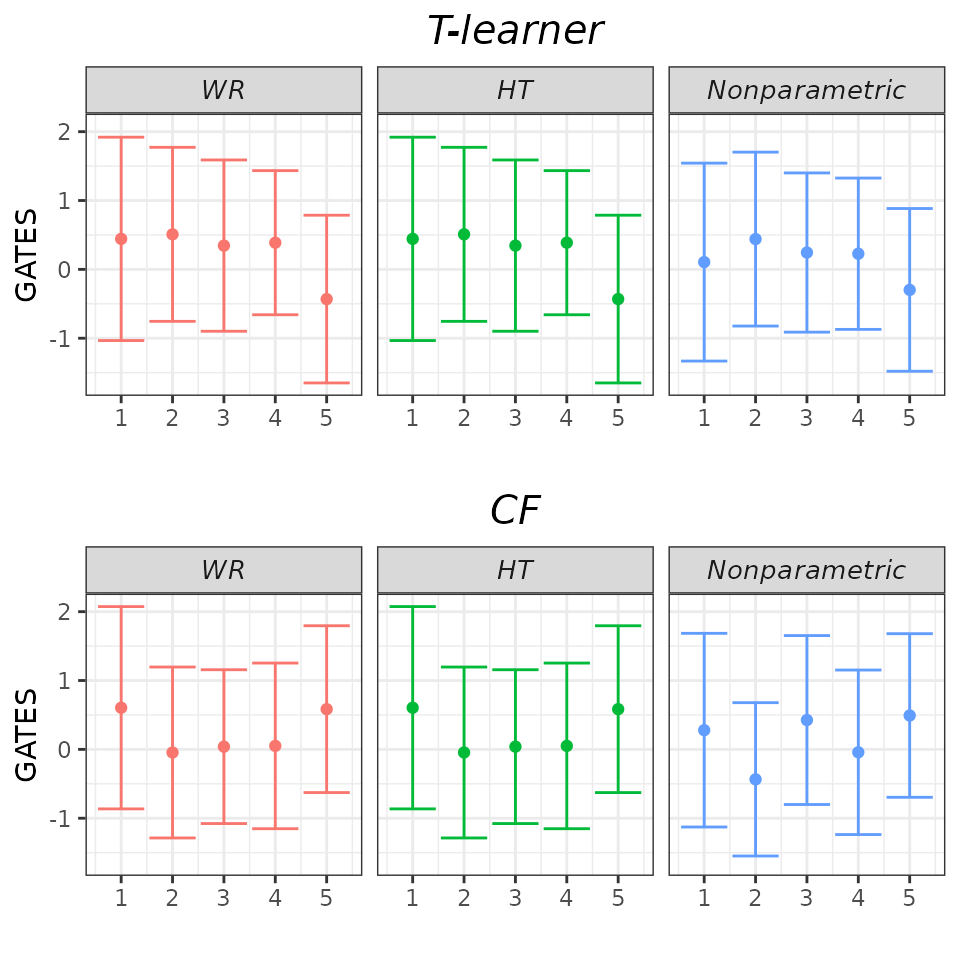
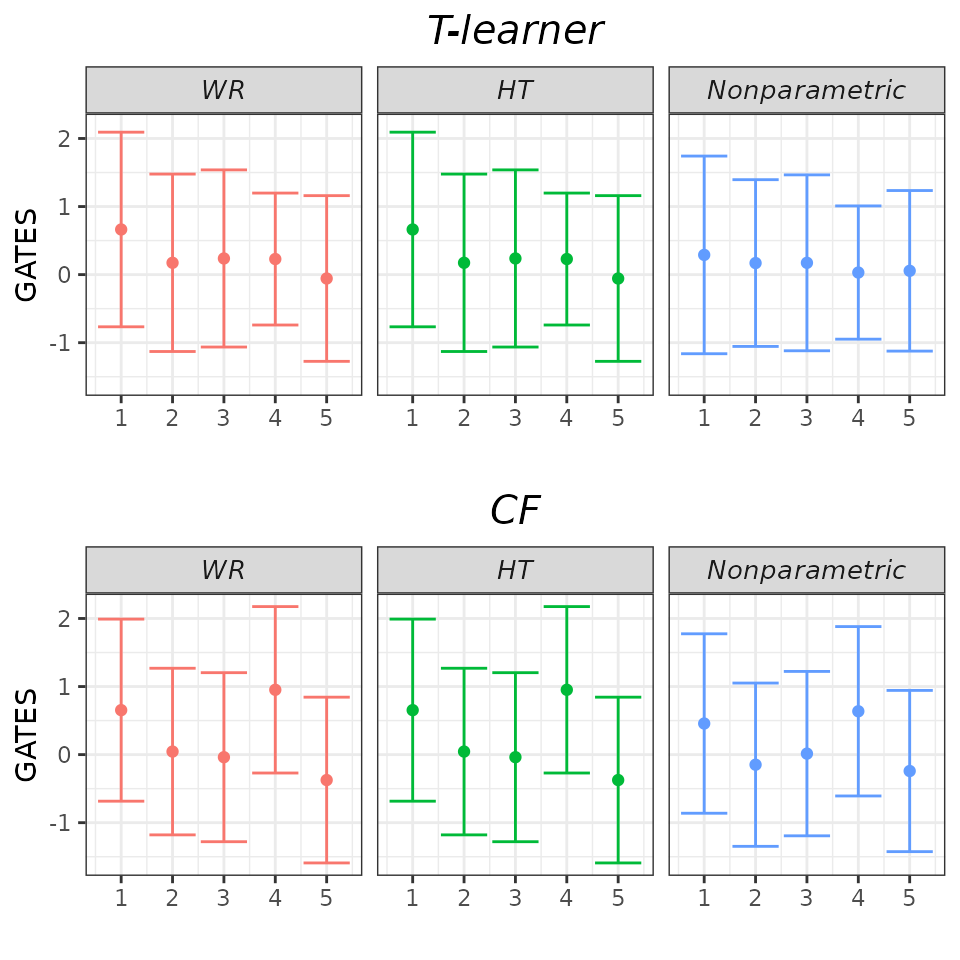
Deploying to gh-pages from @ riccardo-df/valiCATE@ec92bc2bce785bf04cb25d7536d82c8dee4744f3 🚀

diff --git a/index.html b/index.html
@@ -75,33 +75,90 @@
 
       </header><div class="row">
   <div class="contents col-md-9">
-<div class="section level1">
-<div class="page-header"><h1 id="validation-of-conditional-average-treatment-effects-models-">Validation of Conditional Average Treatment Effects Models <a href="https://riccardo-df.github.io/valiCATE/"><img src="reference/figures/logo.svg" align="right" height="200"></a>
-<a class="anchor" aria-label="anchor" href="#validation-of-conditional-average-treatment-effects-models-"></a>
-</h1></div>
-<!-- badges: start -->
 
-<p>Validation of machine learning models for the conditional average treatment effects (CATEs). Models are validated by estimating the best linear predictor of the actual CATEs using the estimated CATEs, the sorted group average treatment effects, and the rank-weighted average treatment effects induced by the estimated CATEs.</p>
-<p>To get started, please check the online <a href="https://riccardo-df.github.io/valiCATE/articles/valiCATE-short-tutorial.html">short tutorial</a>.</p>
+<div class="section level1">
+<div class="page-header"><h1 id="causal-inference-for-qualitative-outcomes-">Causal inference for qualitative outcomes <a href="https://riccardo-df.github.io/valiCATE/"><img src="reference/figures/logo.svg" align="right" height="130"></a>
+<a class="anchor" aria-label="anchor" href="#causal-inference-for-qualitative-outcomes-"></a>
+</h1></div>
+</div>
+<div class="section level1">
+<h1 id="validation-of-conditional-average-treatment-effects-models-">Validation of Conditional Average Treatment Effects Models <a href="https://riccardo-df.github.io/valiCATE/"><img src="reference/figures/logo.svg" align="right" height="130"></a>
+<a class="anchor" aria-label="anchor" href="#validation-of-conditional-average-treatment-effects-models-"></a>
+</h1>
+<p><a href="https://opensource.org/licenses/MIT" class="external-link"><img src="https://img.shields.io/badge/license-MIT-blue.svg" alt="License"></a> <a href="https://CRAN.R-project.org/package=valiCATE" class="external-link"><img src="https://www.r-pkg.org/badges/version/valiCATE" alt="CRAN"></a> <a href="https://CRAN.R-project.org/package=valiCATE" class="external-link"><img src="https://cranlogs.r-pkg.org/badges/valiCATE" alt="Downloads"></a></p>
+<p>The <code>valiCATE</code> package provides a suite of tools for validating machine learning models estimating Conditional Average Treatment Effects (CATEs). Traditional methods for assessing treatment effect heterogeneity often rely on unverified modeling assumptions. <code>valiCATE</code> implements best practices in model validation to ensure robustness and reliability.</p>
+<hr>
 <div class="section level2">
-<h2 id="installation">Installation<a class="anchor" aria-label="anchor" href="#installation"></a>
+<h2 id="why-use-valicate">Why use <code>valiCATE</code>?<a class="anchor" aria-label="anchor" href="#why-use-valicate"></a>
 </h2>
-<p>The current development version of the package can be installed using the <code>devtools</code> package:</p>
-<pre><code><span><span class="fu">devtools</span><span class="fu">::</span><span class="fu">install_github</span><span class="op">(</span><span class="st">"riccardo-df/valiCATE"</span><span class="op">)</span> <span class="co"># run install.packages("devtools") if needed.</span></span></code></pre>
+<table class="table">
+<colgroup>
+<col width="20%">
+<col width="79%">
+</colgroup>
+<thead><tr class="header">
+<th>Feature</th>
+<th>Benefit</th>
+</tr></thead>
+<tbody>
+<tr class="odd">
+<td><strong>Ensures reliable inference</strong></td>
+<td>Evaluates CATE estimates through best linear predictor (BLP), sorted group average treatment effects (GATES), and rank-weighted ATEs (RATEs).</td>
+</tr>
+<tr class="even">
+<td><strong>Identifies systematic heterogeneity</strong></td>
+<td>Tests whether estimated CATE variation reflects genuine treatment heterogeneity or estimation noise.</td>
+</tr>
+<tr class="odd">
+<td><strong>Supports multiple estimation strategies</strong></td>
+<td>Implements weighted residuals, Horvitz-Thompson, AIPW, and nonparametric validation procedures.</td>
+</tr>
+<tr class="even">
+<td><strong>Graphical analysis</strong></td>
+<td>Provides intuitive visualizations of CATE estimates, GATES results, and TOC curves.</td>
+</tr>
+</tbody>
+</table>
+<table class="table">
+<colgroup><col width="100%"></colgroup>
+<tbody>
+<tr class="odd">
+<td align="left">## 🚀 Installation</td>
+</tr>
+<tr class="even">
+<td align="left">To install the latest stable release from CRAN, run:</td>
+</tr>
+<tr class="odd">
+<td align="left"><code># install.packages("valiCATE") # Not yet available!</code></td>
+</tr>
+<tr class="even">
+<td align="left">Alternatively, the current development version of the package can be installed using the <code>devtools</code> package:</td>
+</tr>
+<tr class="odd">
+<td align="left"><code>devtools::install_github("riccardo-df/valiCATE")</code></td>
+</tr>
+</tbody>
+</table>
 </div>
 <div class="section level2">
-<h2 id="references">References<a class="anchor" aria-label="anchor" href="#references"></a>
+<h2 id="contributing">Contributing<a class="anchor" aria-label="anchor" href="#contributing"></a>
 </h2>
-<ul>
-<li><p>Imbens, G. W., &amp; Rubin, D. B. (2015). <b>Causal inference for statistics, social, and biomedical sciences: An introduction.</b> <i>Cambridge University Press</i>. [<a href="https://www.cambridge.org/core/books/causal-inference-for-statistics-social-and-biomedical-sciences/71126BE90C58F1A431FE9B2DD07938AB" class="external-link">book</a>]</p></li>
-<li><p>Chernozhukov, V., Demirer, M., Duflo, E., &amp; Fernandez-Val, I. (2017). <b>Generic machine learning inference on heterogeneous treatment effects in randomized experiments.</b> <i>National Bureau of Economic Research</i>. [<a href="https://arxiv.org/abs/1712.04802" class="external-link">paper</a>]</p></li>
-<li><p>Athey, S., Tibshirani, J., &amp; Wager, S. (2019). <b>Generalized random forests.</b> <i>Annals of Statistics</i>. [<a href="https://projecteuclid.org/journals/annals-of-statistics/volume-47/issue-2/Generalized-random-forests/10.1214/18-AOS1709.full" class="external-link">paper</a>]</p></li>
-<li><p>Künzel, S. R., Sekhon, J. S., Bickel, P. J., &amp; Yu, B. (2019). <b>Metalearners for estimating heterogeneous treatment effects using machine learning.</b> <i>Proceedings of the National Academy of Sciences</i>. [<a href="https://www.pnas.org/doi/abs/10.1073/pnas.1804597116" class="external-link">paper</a>]</p></li>
-<li><p>Imai, K., &amp; Li, M. (2021). <b>Statistical inference for heterogeneous treatment effects discovered by generic machine learning in randomized experiments.</b> <i>arXiv preprint</i>. [<a href="https://arxiv.org/abs/2203.14511" class="external-link">paper</a>]</p></li>
-<li><p>Yadlowsky, S., Fleming, S., Shah, N., Brunskill, E., &amp; Wager, S. (2021). <b>Evaluating treatment prioritization rules via rank-weighted average treatment effects.</b> <i>arXiv preprint</i>. [<a href="https://arxiv.org/abs/2111.07966" class="external-link">paper</a>]</p></li>
-</ul>
+<p>We welcome contributions! If you encounter issues, have feature requests, or want to contribute to the package, please follow the guidelines below.</p>
+<p>📌 <strong>Report an issue:</strong> If you encounter a bug or have a suggestion, please open an issue on GitHub: <a href="https://github.com/riccardo-df/valiCATE/issues" class="external-link">Submit an issue</a></p>
+<p>📌 <strong>Contribute code:</strong> We encourage contributions via pull requests. Before submitting, please: 1. Fork the repository and create a new branch. 2. Ensure that your code follows the existing style and documentation conventions. 3. Run tests and check for package integrity. 4. Submit a pull request with a clear description of your changes.</p>
+<p>📌 <strong>Feature requests:</strong> If you have ideas for new features or extensions, feel free to discuss them by opening an issue.</p>
+<hr>
+</div>
+<div class="section level2">
+<h2 id="citation">Citation<a class="anchor" aria-label="anchor" href="#citation"></a>
+</h2>
+<p>If you use <code>valiCATE</code> in your research, please cite the corresponding paper:</p>
+<blockquote>
+<p><strong>Author(s).</strong> <em>Title of Paper.</em> arXiv, 2025</p>
+</blockquote>
 </div>
 </div>
+
   </div>
 
   <div class="col-md-3 hidden-xs hidden-sm" id="pkgdown-sidebar">
@@ -137,12 +194,7 @@
 </ul>
 </div>
 
-<div class="dev-status">
-<h2 data-toc-skip>Dev status</h2>
-<ul class="list-unstyled">
-<li><a href="https://github.com/riccardo-df/valiCATE/actions/workflows/R-CMD-check.yaml" class="external-link"><img src="https://github.com/riccardo-df/valiCATE/actions/workflows/R-CMD-check.yaml/badge.svg" alt="R-CMD-check"></a></li>
-</ul>
-</div>
+
 
   </div>
 </div>

diff --git a/articles/valiCATE-short-tutorial.html b/articles/valiCATE-short-tutorial.html
@@ -528,17 +528,17 @@ be merely estimation noise.</p>
 <span><span class="co">#&gt; </span></span>
 <span><span class="co">#&gt;       MODEL       |       ATE       |       HET       </span></span>
 <span><span class="co">#&gt; ----------------- | --------------- | --------------- | </span></span>
-<span><span class="co">#&gt;      wr_none      |       0.45      |      -0.37      | </span></span>
-<span><span class="co">#&gt;                   | [-0.117, 1.009] | [-1.325, 0.583] | </span></span>
-<span><span class="co">#&gt;      ht_none      |       0.47      |      -0.41      | </span></span>
-<span><span class="co">#&gt;                   | [-0.118, 1.057] | [-1.398, 0.581] |</span></span>
+<span><span class="co">#&gt;      wr_none      |       0.44      |      -0.41      | </span></span>
+<span><span class="co">#&gt;                   | [-0.118, 1.007] | [-1.366, 0.537] | </span></span>
+<span><span class="co">#&gt;      ht_none      |       0.47      |      -0.45      | </span></span>
+<span><span class="co">#&gt;                   | [-0.118, 1.057] | [-1.446, 0.536] |</span></span>
 <span><span class="co">#&gt; ── <span style="font-weight: bold;">CF</span> ──</span></span>
 <span><span class="co">#&gt;       MODEL       |       ATE       |       HET       </span></span>
 <span><span class="co">#&gt; ----------------- | --------------- | --------------- | </span></span>
 <span><span class="co">#&gt;      wr_none      |       0.44      |      -0.66      | </span></span>
-<span><span class="co">#&gt;                   | [-0.121, 1.006] | [-1.888, 0.563] | </span></span>
+<span><span class="co">#&gt;                   | [-0.122, 1.006] | [-1.893, 0.569] | </span></span>
 <span><span class="co">#&gt;      ht_none      |       0.47      |      -0.73      | </span></span>
-<span><span class="co">#&gt;                   | [-0.118, 1.056] | [-2.017, 0.562] |</span></span>
+<span><span class="co">#&gt;                   | [-0.118, 1.056] | [-2.018, 0.566] |</span></span>
 <span><span class="co">#&gt; <span style="color: #00BBBB;">────────────────────────────────────────────────────────────────────────────────</span></span></span></code></pre></div>
 <p>We can call the <code>summary</code> method with the
 <code>target</code> argument set to GATES to visualize the results of
@@ -567,15 +567,15 @@ heterogeneous.</p>
 <span><span class="co">#&gt; </span></span>
 <span><span class="co">#&gt;       MODEL       |       GATES_1 = GATES_2 = ... = GATES_K       |       GATES_K = GATES_1       </span></span>
 <span><span class="co">#&gt; ----------------- | --------------------------------------------- | ----------------------------- | </span></span>
-<span><span class="co">#&gt;      wr_none      |                     0.895                     |             0.659             | </span></span>
-<span><span class="co">#&gt;      ht_none      |                     0.895                     |             0.617             | </span></span>
-<span><span class="co">#&gt;      imai_li      |                     0.935                     |               NA              |</span></span>
+<span><span class="co">#&gt;      wr_none      |                     0.805                     |             0.586             | </span></span>
+<span><span class="co">#&gt;      ht_none      |                     0.780                     |             0.552             | </span></span>
+<span><span class="co">#&gt;      imai_li      |                     0.907                     |               NA              |</span></span>
 <span><span class="co">#&gt; ── <span style="font-weight: bold;">CF</span> ──</span></span>
 <span><span class="co">#&gt;       MODEL       |       GATES_1 = GATES_2 = ... = GATES_K       |       GATES_K = GATES_1       </span></span>
 <span><span class="co">#&gt; ----------------- | --------------------------------------------- | ----------------------------- | </span></span>
-<span><span class="co">#&gt;      wr_none      |                     0.640                     |             0.489             | </span></span>
-<span><span class="co">#&gt;      ht_none      |                     0.586                     |             0.460             | </span></span>
-<span><span class="co">#&gt;      imai_li      |                     0.641                     |               NA              |</span></span>
+<span><span class="co">#&gt;      wr_none      |                     0.415                     |             0.478             | </span></span>
+<span><span class="co">#&gt;      ht_none      |                     0.358                     |             0.455             | </span></span>
+<span><span class="co">#&gt;      imai_li      |                     0.532                     |               NA              |</span></span>
 <span><span class="co">#&gt; <span style="color: #00BBBB;">────────────────────────────────────────────────────────────────────────────────</span></span></span>
 <span></span>
 <span><span class="fu"><a href="https://rdrr.io/r/graphics/plot.default.html" class="external-link">plot</a></span><span class="op">(</span><span class="va">validation</span>, target <span class="op">=</span> <span class="st">"GATES"</span><span class="op">)</span></span></code></pre></div>
@@ -604,17 +604,17 @@ that both models produce unreliable estimates.</p>
 <span><span class="co">#&gt; </span></span>
 <span><span class="co">#&gt;       WEIGHT       |       RATE       | </span></span>
 <span><span class="co">#&gt; ------------------ | ---------------- |  </span></span>
-<span><span class="co">#&gt;        autoc       |       0.02       | </span></span>
-<span><span class="co">#&gt;                    |  [-0.455, Infty] | </span></span>
-<span><span class="co">#&gt;        qini        |       0.00       | </span></span>
-<span><span class="co">#&gt;                    |  [-0.150, Infty] |</span></span>
+<span><span class="co">#&gt;        autoc       |       -0.03      | </span></span>
+<span><span class="co">#&gt;                    |  [-0.502, Infty] | </span></span>
+<span><span class="co">#&gt;        qini        |       -0.02      | </span></span>
+<span><span class="co">#&gt;                    |  [-0.166, Infty] |</span></span>
 <span><span class="co">#&gt; ── <span style="font-weight: bold;">CF</span> ──</span></span>
 <span><span class="co">#&gt;       WEIGHT       |       RATE       | </span></span>
 <span><span class="co">#&gt; ------------------ | ---------------- |  </span></span>
-<span><span class="co">#&gt;        autoc       |       -0.12      | </span></span>
-<span><span class="co">#&gt;                    |  [-0.544, Infty] | </span></span>
-<span><span class="co">#&gt;        qini        |       -0.02      | </span></span>
-<span><span class="co">#&gt;                    |  [-0.157, Infty] |</span></span>
+<span><span class="co">#&gt;        autoc       |       -0.04      | </span></span>
+<span><span class="co">#&gt;                    |  [-0.466, Infty] | </span></span>
+<span><span class="co">#&gt;        qini        |       -0.01      | </span></span>
+<span><span class="co">#&gt;                    |  [-0.141, Infty] |</span></span>
 <span></span>
 <span><span class="fu"><a href="https://rdrr.io/r/graphics/plot.default.html" class="external-link">plot</a></span><span class="op">(</span><span class="va">validation</span>, target <span class="op">=</span> <span class="st">"TOC"</span><span class="op">)</span></span></code></pre></div>
 <p><img src="valiCATE-short-tutorial_files/figure-html/rates-results-1.png" width="480"></p>

diff --git a/reference/valiCATE.html b/reference/valiCATE.html
@@ -273,18 +273,18 @@ estimates obtained using the half-sample bootstrap.<br></p>
 <span class="r-msg co"><span class="r-pr">#&gt;</span> </span>
 <span class="r-out co"><span class="r-pr">#&gt;</span>       MODEL       |       ATE       |       HET       </span>
 <span class="r-out co"><span class="r-pr">#&gt;</span> ----------------- | --------------- | --------------- | </span>
-<span class="r-out co"><span class="r-pr">#&gt;</span>      wr_none      |      -0.12      |       1.06      | </span>
-<span class="r-out co"><span class="r-pr">#&gt;</span>                   | [-0.333, 0.088] |  [0.813, 1.299] | </span>
+<span class="r-out co"><span class="r-pr">#&gt;</span>      wr_none      |      -0.12      |       1.05      | </span>
+<span class="r-out co"><span class="r-pr">#&gt;</span>                   | [-0.333, 0.089] |  [0.811, 1.299] | </span>
 <span class="r-out co"><span class="r-pr">#&gt;</span>      ht_none      |      -0.14      |       1.07      | </span>
-<span class="r-out co"><span class="r-pr">#&gt;</span>                   | [-0.363, 0.085] |  [0.793, 1.343] | </span>
+<span class="r-out co"><span class="r-pr">#&gt;</span>                   | [-0.363, 0.086] |  [0.791, 1.345] | </span>
 <span class="r-msg co"><span class="r-pr">#&gt;</span> ── <span style="font-weight: bold;">grf</span> ──</span>
 <span class="r-msg co"><span class="r-pr">#&gt;</span> </span>
 <span class="r-out co"><span class="r-pr">#&gt;</span>       MODEL       |       ATE       |       HET       </span>
 <span class="r-out co"><span class="r-pr">#&gt;</span> ----------------- | --------------- | --------------- | </span>
-<span class="r-out co"><span class="r-pr">#&gt;</span>      wr_none      |      -0.12      |       1.04      | </span>
-<span class="r-out co"><span class="r-pr">#&gt;</span>                   | [-0.331, 0.090] |  [0.798, 1.285] | </span>
-<span class="r-out co"><span class="r-pr">#&gt;</span>      ht_none      |      -0.14      |       1.05      | </span>
-<span class="r-out co"><span class="r-pr">#&gt;</span>                   | [-0.363, 0.086] |  [0.774, 1.318] | </span>
+<span class="r-out co"><span class="r-pr">#&gt;</span>      wr_none      |      -0.12      |       1.06      | </span>
+<span class="r-out co"><span class="r-pr">#&gt;</span>                   | [-0.331, 0.090] |  [0.810, 1.305] | </span>
+<span class="r-out co"><span class="r-pr">#&gt;</span>      ht_none      |      -0.14      |       1.06      | </span>
+<span class="r-out co"><span class="r-pr">#&gt;</span>                   | [-0.363, 0.086] |  [0.783, 1.338] | </span>
 <span class="r-msg co"><span class="r-pr">#&gt;</span> <span style="color: #00BBBB;">────────────────────────────────────────────────────────────────────────────────</span></span>
 <span class="r-in"><span><span class="fu"><a href="https://rdrr.io/r/base/summary.html" class="external-link">summary</a></span><span class="op">(</span><span class="va">validation</span>, target <span class="op">=</span> <span class="st">"BLP"</span>, latex <span class="op">=</span> <span class="cn">TRUE</span><span class="op">)</span></span></span>
 <span class="r-out co"><span class="r-pr">#&gt;</span> \begingroup</span>
@@ -302,9 +302,9 @@ estimates obtained using the half-sample bootstrap.<br></p>
 <span class="r-out co"><span class="r-pr">#&gt;</span>       \hline \\[-1.8ex] </span>
 <span class="r-out co"><span class="r-pr">#&gt;</span> </span>
 <span class="r-out co"><span class="r-pr">#&gt;</span>       \multirow{2}{6em}{ATE ($\hat{\beta}_1$)} &amp; -0.12 &amp;  -0.14 &amp;  -0.12 &amp;  -0.14 \\ </span>
-<span class="r-out co"><span class="r-pr">#&gt;</span>       &amp; [-0.333, 0.088] &amp;  [-0.363, 0.085] &amp;  [-0.331, 0.090] &amp;  [-0.363, 0.086] \\ </span>
-<span class="r-out co"><span class="r-pr">#&gt;</span>       \multirow{2}{6em}{HET ($\hat{\beta}_2$)} &amp; 1.06 &amp;  1.07 &amp;  1.04 &amp;  1.05 \\ </span>
-<span class="r-out co"><span class="r-pr">#&gt;</span>       &amp; [0.813, 1.299] &amp;  [0.793, 1.343] &amp;  [0.798, 1.285] &amp;  [0.774, 1.318] \\ </span>
+<span class="r-out co"><span class="r-pr">#&gt;</span>       &amp; [-0.333, 0.089] &amp;  [-0.363, 0.086] &amp;  [-0.331, 0.090] &amp;  [-0.363, 0.086] \\ </span>
+<span class="r-out co"><span class="r-pr">#&gt;</span>       \multirow{2}{6em}{HET ($\hat{\beta}_2$)} &amp; 1.05 &amp;  1.07 &amp;  1.06 &amp;  1.06 \\ </span>
+<span class="r-out co"><span class="r-pr">#&gt;</span>       &amp; [0.811, 1.299] &amp;  [0.791, 1.345] &amp;  [0.810, 1.305] &amp;  [0.783, 1.338] \\ </span>
 <span class="r-out co"><span class="r-pr">#&gt;</span> </span>
 <span class="r-out co"><span class="r-pr">#&gt;</span>       \addlinespace[3pt]</span>
 <span class="r-out co"><span class="r-pr">#&gt;</span>       \\[-1.8ex]\hline</span>
@@ -348,18 +348,18 @@ estimates obtained using the half-sample bootstrap.<br></p>
 <span class="r-msg co"><span class="r-pr">#&gt;</span> </span>
 <span class="r-out co"><span class="r-pr">#&gt;</span>       WEIGHT       |       RATE       | </span>
 <span class="r-out co"><span class="r-pr">#&gt;</span> ------------------ | ---------------- |  </span>
-<span class="r-out co"><span class="r-pr">#&gt;</span>        autoc       |       0.91       | </span>
-<span class="r-out co"><span class="r-pr">#&gt;</span>                    |  [0.717, Infty]  | </span>
+<span class="r-out co"><span class="r-pr">#&gt;</span>        autoc       |       0.89       | </span>
+<span class="r-out co"><span class="r-pr">#&gt;</span>                    |  [0.713, Infty]  | </span>
 <span class="r-out co"><span class="r-pr">#&gt;</span>        qini        |       0.28       | </span>
 <span class="r-out co"><span class="r-pr">#&gt;</span>                    |  [0.233, Infty]  | </span>
 <span class="r-msg co"><span class="r-pr">#&gt;</span> ── <span style="font-weight: bold;">grf</span> ──</span>
 <span class="r-msg co"><span class="r-pr">#&gt;</span> </span>
 <span class="r-out co"><span class="r-pr">#&gt;</span>       WEIGHT       |       RATE       | </span>
 <span class="r-out co"><span class="r-pr">#&gt;</span> ------------------ | ---------------- |  </span>
-<span class="r-out co"><span class="r-pr">#&gt;</span>        autoc       |       0.87       | </span>
-<span class="r-out co"><span class="r-pr">#&gt;</span>                    |  [0.704, Infty]  | </span>
+<span class="r-out co"><span class="r-pr">#&gt;</span>        autoc       |       0.88       | </span>
+<span class="r-out co"><span class="r-pr">#&gt;</span>                    |  [0.711, Infty]  | </span>
 <span class="r-out co"><span class="r-pr">#&gt;</span>        qini        |       0.28       | </span>
-<span class="r-out co"><span class="r-pr">#&gt;</span>                    |  [0.227, Infty]  | </span>
+<span class="r-out co"><span class="r-pr">#&gt;</span>                    |  [0.229, Infty]  | </span>
 <span class="r-in"><span><span class="fu"><a href="https://rdrr.io/r/base/summary.html" class="external-link">summary</a></span><span class="op">(</span><span class="va">validation</span>, target <span class="op">=</span> <span class="st">"RATE"</span>, latex <span class="op">=</span> <span class="cn">TRUE</span><span class="op">)</span></span></span>
 <span class="r-out co"><span class="r-pr">#&gt;</span> YET TO BE IMPLEMENTED, SORRY :( </span>
 <span class="r-out co"><span class="r-pr">#&gt;</span> WE APPRECIATE ANY SUGGESTIONS ON THE FORMAT. </span>

diff --git a/authors.html b/authors.html
@@ -74,14 +74,14 @@
     </div>
 
 
-    <p>Di Francesco R (2024).
+    <p>Di Francesco R (2025).
 <em>valiCATE: Validation of CATE Models</em>.
 R package version 0.1.0, <a href="https://riccardo-df.github.io/evalueCATE/" class="external-link">https://riccardo-df.github.io/evalueCATE/</a>.
 </p>
     <pre>@Manual{,
   title = {valiCATE: Validation of CATE Models},
   author = {Riccardo {Di Francesco}},
-  year = {2024},
+  year = {2025},
   note = {R package version 0.1.0},
   url = {https://riccardo-df.github.io/evalueCATE/},
 }</pre>
